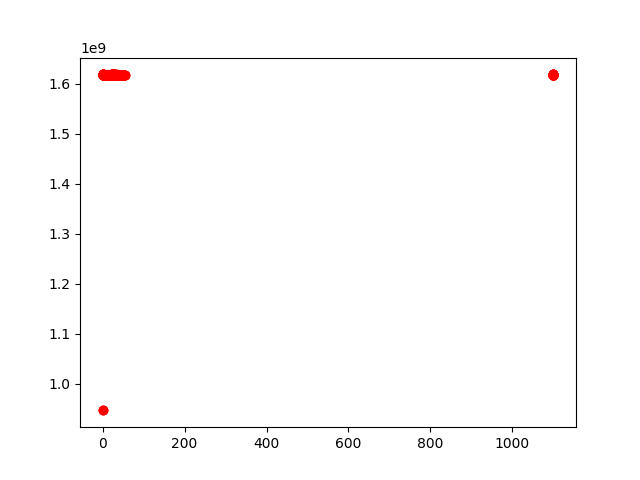
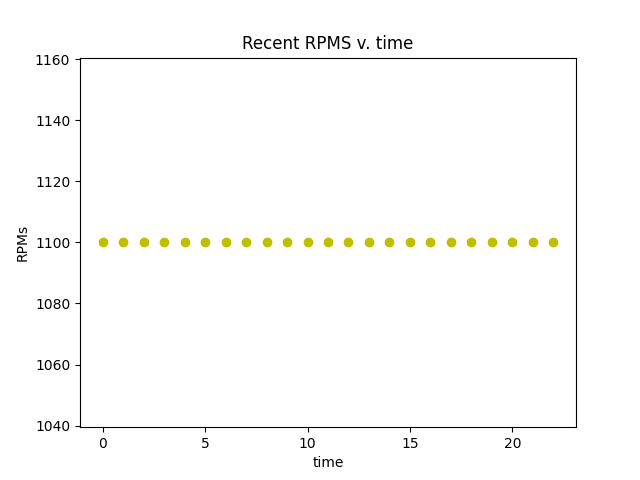
adde dstuff

diff --git a/aws_server/serve.py b/aws_server/serve.py
@@ -26,7 +26,7 @@ import data_obtainer as do
 
 # Mongodb setup and other AI/ML/NN options
 client = pymongo.MongoClient("mongodb://localhost:27017/")
-DB = client["fan"]
+DB = client["fan2"]
 db = DB["user"]
 filename = "nn.sav"
 users = client["users"]
@@ -280,6 +280,31 @@ while True:
         send_response(200, "OK", {"user_off": user_off}, clientSocket) # also closes conn
         continue
 
+    if "req_temp_time" in typ:
+        x = "HTTP/1.1 200 OK\r\n\r\n\r\n"
+        num_b = 0
+        with open('./model/temp_time.png', 'r') as file:
+            x = file.read()
+        num_b = len(x)
+        send_response(200, "OK", x, clientSocket) # also closes conn
+        continue
+    if "req_hum_time" in typ:
+        x = "HTTP/1.1 200 OK\r\n\r\n\r\n"
+        num_b = 0
+        with open('./model/hums_time.png', 'r') as file:
+            x = file.read()
+        num_b = len(x)
+        send_response(200, "OK", x, clientSocket) # also closes conn
+        continue
+    if "req_rpm_time" in typ:
+        x = "HTTP/1.1 200 OK\r\n\r\n\r\n"
+        num_b = 0
+        with open('./model/rpm_time.png', 'r') as file:
+            x = file.read()
+        num_b = len(x)
+        send_response(200, "OK", x, clientSocket) # also closes conn
+        continue
+
     if "req_LR" in typ:
         x = "HTTP/1.1 200 OK\r\n\r\n\r\n"
         num_b = 0
@@ -328,7 +353,10 @@ while True:
                 #    print(zz, "not in list")
                 #    continue
                 if zz is "time":
-                    x[str(zz)] = z[zz] + 946684800
+                    if z[zz] < 1618802818:
+                        x[str(zz)] = z[zz] + 946684800
+                    else:
+                        x[str(zz)] = z[zz]
                 else:
                     x[str(zz)] = z[zz]
             if x is not {} and len(x) != 0:

diff --git a/aws_server/get_graphs.py b/aws_server/get_graphs.py
@@ -1,24 +1,50 @@
 import matplotlib.pyplot as plt
 import data_obtainer as do
+from datetime import datetime
+import time
 
 
-data = do.get_data("fan", ["temp (C)", "hum", "RPM", "time"], "array")
+data = do.get_data("fan2", ["temp (C)", "hum", "RPM", "time"], "array")
 temps = []
 RPMs = []
 hums = []
 times = []
+times2 = []
+now = time.time()
+c = 0
 for d in data:
-    temps.append(d[0])
-    hums.append(d[1])
-    RPMs.append(d[2])
-    times.append(d[3])
-plt.plot(temps, times, 'ro')
+    ts = d[3]
+    if ts > 1618973374:
+        ts - 946684800
+
+    if now - ts < 60 * 60 * 12 * 1000:
+        temps.append(d[0])
+        hums.append(d[1])
+        RPMs.append(d[2])
+        time = datetime.fromtimestamp(ts) 
+        times.append(c)
+        times2.append(time)
+        c += 1
+
+plt.plot(times, temps, 'ro')
+plt.xlabel("time")
+plt.ylabel("temperature (C)")
+plt.title("Recent temp v. time")
 plt.savefig('model/temp_time.png')
+plt.clf()
 
 
-plt.plot(hums, times, 'ro')
+plt.plot(times, hums, 'bo')
+plt.xlabel("time")
+plt.ylabel("humidity")
+plt.title("Recent humidity v. time")
 plt.savefig('model/hums_time.png')
+plt.clf()
 
 
-plt.plot(RPMs, times, 'ro')
+plt.plot(times, RPMs,  'yo')
+plt.xlabel("time")
+plt.ylabel("RPMs")
+plt.title("Recent RPMS v. time")
 plt.savefig('model/rpm_time.png')
+plt.clf()

diff --git a/aws_server/data_obtainer.py b/aws_server/data_obtainer.py
@@ -18,7 +18,7 @@ def get_array_of_hashes(mongo_data, field_array):
         data_fmt ={}
         for f in field_array:
             if f in data_point:
-                if f is "time" and data_point[f] < 870697983:
+                if f is "time" and data_point[f] < 970697983:
                     data_fmt[f] = data_point[f] + 946684800
                 else:
                     data_fmt[f] = data_point[f]
@@ -36,7 +36,7 @@ def get_array_of_arrays(mongo_data, field_array):
         data_fmt = []
         for f in field_array:
             if f in data_point:
-                if f is "time" and data_point[f] < 870697983:
+                if f is "time" and data_point[f] < 970697983:
                     data_fmt.append(data_point[f] + 946684800)
                 else:
                     data_fmt.append(data_point[f])
@@ -54,7 +54,7 @@ def get_array_of_tuples(mongo_data, field_array):
         data_fmt = []
         for f in field_array:
             if f in data_point:
-                if f is "time" and data_point[f] < 870697983:
+                if f is "time" and data_point[f] < 970697983:
                     data_fmt.append(data_point[f] + 946684800)
                 else:
                     data_fmt.append(data_point[f])
